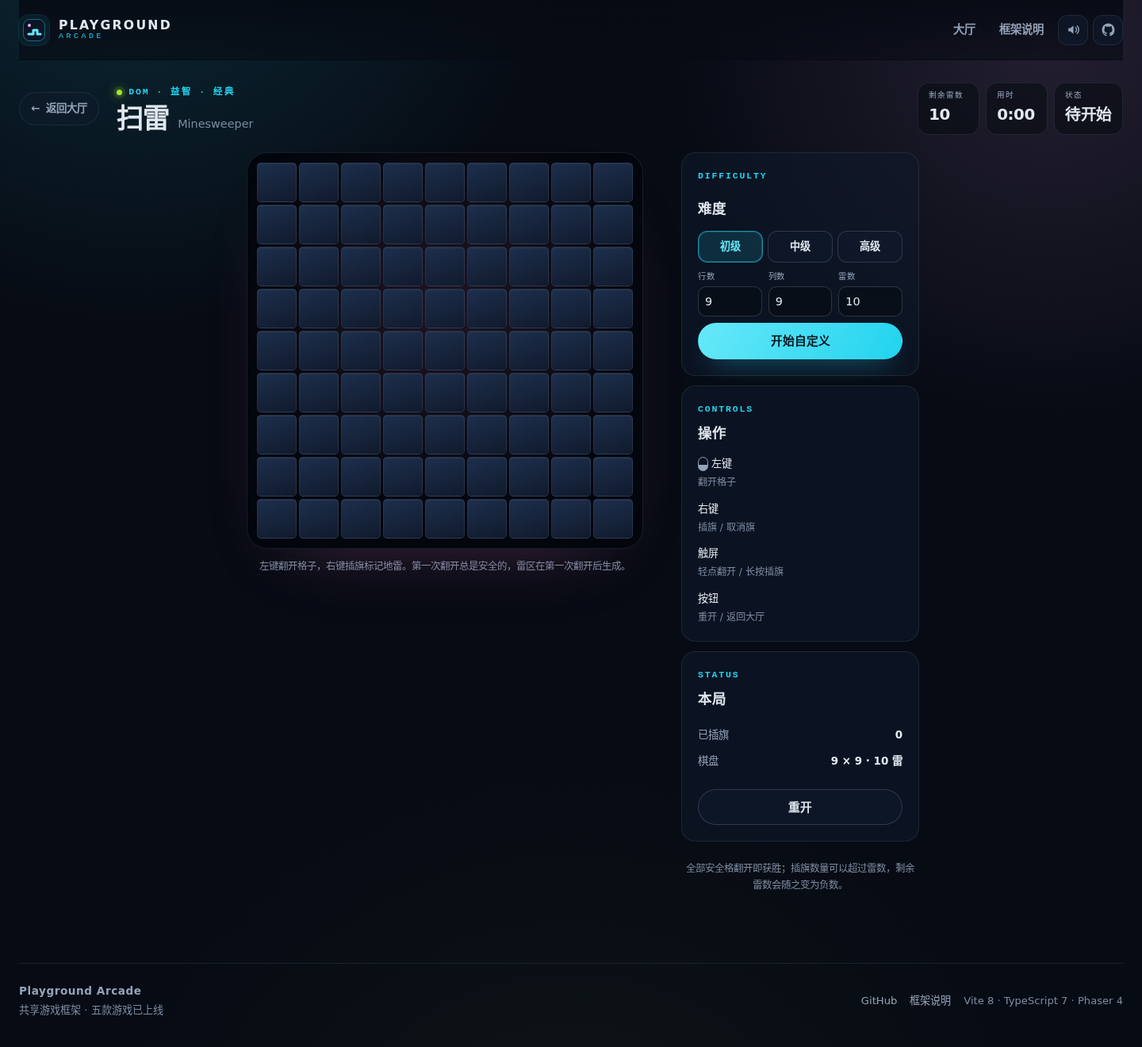
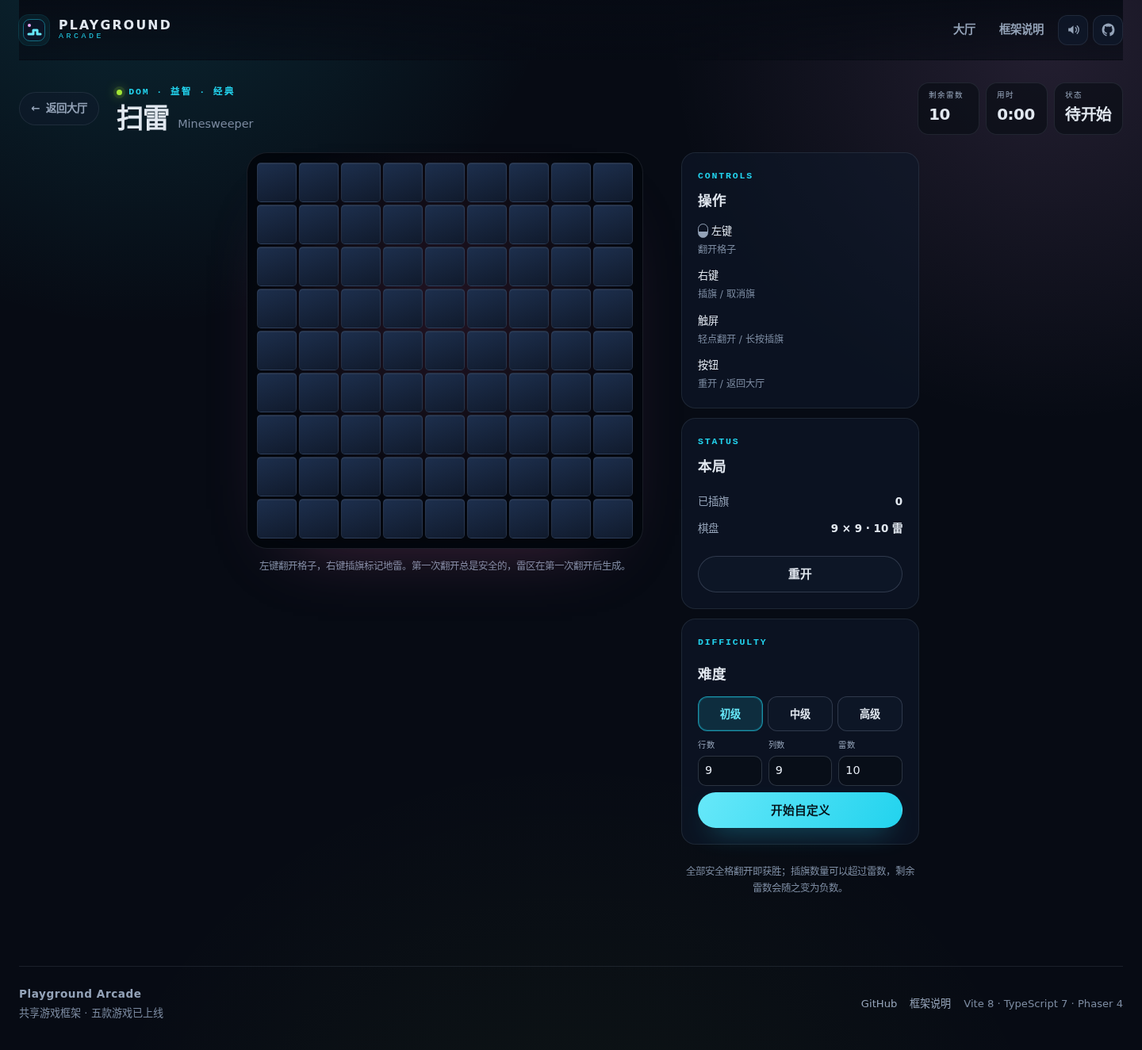
fix(minesweeper): keep restart visible and harden difficulty UI
Place the difficulty card after the controls and status cards so the desktop sidebar restart stays fully visible at 1440x1000. Raise preset and custom-submit controls to the 44px touch target, unhide the alert before filling it for assistive technology, and clear stale custom errors/form values on restart.

Extend the e2e suite with Enter submission, touch-form submission, safe-zone capacity errors, dirty-board cleanup and a real preset-click focus test. Refresh the affected screenshots and update the documented test/budget counts.

diff --git a/tests/e2e/minesweeper.difficulty.spec.ts b/tests/e2e/minesweeper.difficulty.spec.ts
@@ -14,7 +14,6 @@ import {
   mineSignature,
   openMinesweeper,
   readState,
-  setDebugConfig,
   submitCustomDifficulty,
 } from './minesweeper-helpers';
 import {
@@ -35,6 +34,9 @@ test.describe('minesweeper difficulty selector', () => {
     await expect(page.locator('[data-cell]')).toHaveCount(81);
     await expect(page.getByTestId('board-summary')).toHaveText('9 × 9 · 10 雷');
     await expect(page.getByTestId('remaining-mines')).toHaveText('10');
+    // The sidebar restart must stay fully usable on the 1440×1000 desktop
+    // viewport: the difficulty card lives below it, not above it.
+    await expect(page.getByTestId('restart-button')).toBeInViewport({ ratio: 1 });
     await expectActiveDifficulty(page, 'beginner');
 
     // Dirty the beginner board and start its clock, so the rebuild must clear
@@ -199,6 +201,15 @@ test.describe('minesweeper difficulty selector', () => {
     await expect(page.getByTestId('status')).toHaveText('进行中');
     expect(await activeIntervalCount(page)).toBe(1);
 
+    // A 5×5 board leaves 16 mines at most once the 3×3 safe zone is reserved.
+    await submitCustomDifficulty(page, 5, 5, 17);
+    await expect(error).toHaveText(
+      '雷数过多：首点安全区占 9 格，最多只能放 16 颗雷。',
+    );
+    await expect(page.locator('[data-cell]')).toHaveCount(256);
+    await expect(page.getByTestId('status')).toHaveText('进行中');
+    expect(await activeIntervalCount(page)).toBe(1);
+
     // Blank and non-integer values are rejected instead of clamped.
     await submitCustomDifficulty(page, '', 9, 10);
     await expect(error).toHaveText('行数不能为空。');
@@ -213,6 +224,49 @@ test.describe('minesweeper difficulty selector', () => {
     await expectActiveDifficulty(page, 'beginner');
     await expect(page.locator('[data-cell]')).toHaveCount(81);
     await expect(page.getByTestId('status')).toHaveText('待开始');
+    await expect(page.getByTestId('timer')).toHaveText('0:00');
+    await expect(page.getByTestId('flag-count')).toHaveText('0');
+    await expectCleanBoard(page);
+    expect(await activeIntervalCount(page)).toBe(0);
+
+    // Restart is a fresh game action: it clears a stale alert and restores the
+    // form values to the active config instead of keeping the rejected input.
+    await submitCustomDifficulty(page, 8, 8, 64);
+    await expect(error).toBeVisible();
+    await page.getByTestId('restart-button').click();
+    await expect(error).toBeHidden();
+    await expect(page.getByTestId('custom-rows')).toHaveValue('9');
+    await expect(page.getByTestId('custom-cols')).toHaveValue('9');
+    await expect(page.getByTestId('custom-mines')).toHaveValue('10');
+    await expect(page.getByTestId('board-summary')).toHaveText('9 × 9 · 10 雷');
+    await expect(page.getByTestId('timer')).toHaveText('0:00');
+  });
+
+  test('Enter submits the custom form from a number input', async ({ page }) => {
+    await installIntervalProbe(page);
+    await openMinesweeper(page);
+
+    await page.getByTestId('custom-rows').fill('12');
+    await page.getByTestId('custom-cols').fill('12');
+    await page.getByTestId('custom-mines').fill('20');
+    await page.getByTestId('custom-rows').press('Enter');
+    await expect(page.locator('[data-cell]')).toHaveCount(144);
+    await expect(page.getByTestId('board-summary')).toHaveText('12 × 12 · 20 雷');
+    await expect(page.getByTestId('status')).toHaveText('待开始');
+    await expect(page.getByTestId('timer')).toHaveText('0:00');
+    expect(await activeIntervalCount(page)).toBe(0);
+
+    // Enter also owns the invalid path: only the alert changes.
+    await page.getByTestId('custom-rows').fill('8');
+    await page.getByTestId('custom-cols').fill('8');
+    await page.getByTestId('custom-mines').fill('64');
+    await page.getByTestId('custom-mines').press('Enter');
+    await expect(page.getByTestId('difficulty-error')).toBeVisible();
+    await expect(page.getByTestId('difficulty-error')).toHaveText(
+      '雷数必须小于格子总数（64）。',
+    );
+    await expect(page.locator('[data-cell]')).toHaveCount(144);
+    await expect(page.getByTestId('board-summary')).toHaveText('12 × 12 · 20 雷');
     await expect(page.getByTestId('timer')).toHaveText('0:00');
     expect(await activeIntervalCount(page)).toBe(0);
   });
@@ -284,15 +338,10 @@ test.describe('minesweeper difficulty selector', () => {
     await expect(page.getByTestId('status')).toHaveText('踩雷结束');
     await expect(page.getByTestId('overlay-primary')).toBeFocused();
 
-    // The debug seam exercises the same rebuild path the selector uses while
-    // the overlay owns focus. Focus must land on the new active preset, not on
-    // the button inside the now-hidden overlay.
-    await setDebugConfig(page, {
-      rows: 16,
-      cols: 16,
-      mines: 40,
-      firstClickSafe: true,
-    });
+    // A real preset click while the overlay owns focus: the click focuses the
+    // preset, the rebuild hides the overlay, and focus must stay on a visible
+    // control instead of the button inside the now-hidden overlay.
+    await difficultyButton(page, 'intermediate').click();
     await expect(page.getByTestId('overlay')).toBeHidden();
     await expect(difficultyButton(page, 'intermediate')).toBeFocused();
     await expectActiveDifficulty(page, 'intermediate');

diff --git a/src/games/minesweeper/view.ts b/src/games/minesweeper/view.ts
@@ -40,7 +40,7 @@ const STATUS_LABELS: Readonly<Record<MinesweeperStatus, string>> = {
 /**
  * Render the three preset buttons with the active one pressed. The labels and
  * boards come from the difficulty module so the selector cannot drift from the
- * presets the parser and the lobby description use.
+ * presets the parser and the engine validate against.
  */
 function difficultyPresetButtonsHtml(config: Readonly<MinesweeperConfig>): string {
   const active = findDifficultyForConfig(config);
@@ -108,6 +108,31 @@ function viewHtml(config: Readonly<MinesweeperConfig>): string {
       </div>
 
       <aside class="minesweeper-panel" aria-label="操作与状态">
+        <div class="panel-card">
+          <p class="panel-kicker">CONTROLS</p>
+          <h2>操作</h2>
+          <dl class="control-list">
+            <div>
+              <dt><span class="pointer-glyph" aria-hidden="true"></span> 左键</dt>
+              <dd>翻开格子</dd>
+            </div>
+            <div><dt>右键</dt><dd>插旗 / 取消旗</dd></div>
+            <div><dt>触屏</dt><dd>轻点翻开 / 长按插旗</dd></div>
+            <div><dt>按钮</dt><dd>重开 / 返回大厅</dd></div>
+          </dl>
+        </div>
+
+        <div class="panel-card">
+          <p class="panel-kicker">STATUS</p>
+          <h2>本局</h2>
+          <p class="minesweeper-summary"><span>已插旗</span><strong data-testid="flag-count">0</strong></p>
+          <p class="minesweeper-summary"><span>棋盘</span><strong data-testid="board-summary">${config.rows} × ${config.cols} · ${config.mines} 雷</strong></p>
+          <div class="panel-actions">
+            <button class="button button--ghost" type="button" data-action="restart"
+              data-testid="restart-button">重开</button>
+          </div>
+        </div>
+
         <div class="panel-card minesweeper-difficulty" aria-labelledby="minesweeper-difficulty-title">
           <p class="panel-kicker">DIFFICULTY</p>
           <h2 id="minesweeper-difficulty-title">难度</h2>
@@ -142,31 +167,6 @@ function viewHtml(config: Readonly<MinesweeperConfig>): string {
             <p class="minesweeper-error" id="minesweeper-difficulty-error" role="alert"
               data-testid="difficulty-error" hidden></p>
           </form>
-        </div>
-
-        <div class="panel-card">
-          <p class="panel-kicker">CONTROLS</p>
-          <h2>操作</h2>
-          <dl class="control-list">
-            <div>
-              <dt><span class="pointer-glyph" aria-hidden="true"></span> 左键</dt>
-              <dd>翻开格子</dd>
-            </div>
-            <div><dt>右键</dt><dd>插旗 / 取消旗</dd></div>
-            <div><dt>触屏</dt><dd>轻点翻开 / 长按插旗</dd></div>
-            <div><dt>按钮</dt><dd>重开 / 返回大厅</dd></div>
-          </dl>
-        </div>
-
-        <div class="panel-card">
-          <p class="panel-kicker">STATUS</p>
-          <h2>本局</h2>
-          <p class="minesweeper-summary"><span>已插旗</span><strong data-testid="flag-count">0</strong></p>
-          <p class="minesweeper-summary"><span>棋盘</span><strong data-testid="board-summary">${config.rows} × ${config.cols} · ${config.mines} 雷</strong></p>
-          <div class="panel-actions">
-            <button class="button button--ghost" type="button" data-action="restart"
-              data-testid="restart-button">重开</button>
-          </div>
         </div>
 
         <p class="minesweeper-hint">全部安全格翻开即获胜；插旗数量可以超过雷数，剩余雷数会随之变为负数。</p>
@@ -542,8 +542,10 @@ export async function mountMinesweeper(
   }
 
   function showDifficultyError(message: string): void {
-    setText(difficultyError, message);
+    // Unhide the live region before filling it so assistive technology sees the
+    // alert appear with its text, rather than a text update on a hidden node.
     difficultyError.hidden = false;
+    setText(difficultyError, message);
   }
 
   function hideDifficultyError(): void {
@@ -775,6 +777,11 @@ export async function mountMinesweeper(
     stopClock();
     lastStatus = engine.currentStatus;
     sync();
+    // A rejected custom board can leave a stale alert and field values while
+    // the active game still uses the previous config. Restarting is a fresh
+    // game action, so clear that transient error and show the active config.
+    hideDifficultyError();
+    syncDifficultyControls();
     announce('游戏重新开始');
     // The overlay hides with focus still inside it, so move focus back to a
     // visible restart control once the new board is ready. On touch layouts the

diff --git a/tests/e2e/minesweeper.difficulty.mobile.spec.ts b/tests/e2e/minesweeper.difficulty.mobile.spec.ts
@@ -1,4 +1,5 @@
 import { expect, test } from './fixtures';
+import type { Page } from '@playwright/test';
 import {
   cellLocator,
   difficultyButton,
@@ -6,8 +7,27 @@ import {
   expectInsideViewport,
   expectNoHorizontalOverflow,
   openMinesweeper,
-  submitCustomDifficulty,
 } from './minesweeper-helpers';
+
+/** Submit the custom form with touch events, including the submit button. */
+async function submitCustomByTouch(
+  page: Page,
+  rows: number,
+  cols: number,
+  mines: number,
+): Promise<void> {
+  const fields = [
+    ['custom-rows', rows],
+    ['custom-cols', cols],
+    ['custom-mines', mines],
+  ] as const;
+  for (const [testId, value] of fields) {
+    const input = page.getByTestId(testId);
+    await input.tap();
+    await input.fill(String(value));
+  }
+  await page.getByTestId('custom-difficulty-submit').tap();
+}
 
 test.describe('minesweeper difficulty selector on a phone viewport', () => {
   test('presets and custom boards are operable by touch without horizontal overflow', async ({
@@ -40,7 +60,7 @@ test.describe('minesweeper difficulty selector on a phone viewport', () => {
     await expectActiveDifficulty(page, 'expert');
     await expectNoHorizontalOverflow(page);
 
-    await submitCustomDifficulty(page, 12, 12, 20);
+    await submitCustomByTouch(page, 12, 12, 20);
     await expect(page.locator('[data-cell]')).toHaveCount(144);
     await expect(page.getByTestId('board-summary')).toHaveText('12 × 12 · 20 雷');
     await expect(page.getByTestId('remaining-mines')).toHaveText('20');
@@ -53,7 +73,7 @@ test.describe('minesweeper difficulty selector on a phone viewport', () => {
     );
 
     // A rejected custom board stays a visible alert and does not rebuild.
-    await submitCustomDifficulty(page, 8, 8, 64);
+    await submitCustomByTouch(page, 8, 8, 64);
     const error = page.getByTestId('difficulty-error');
     await expect(error).toBeVisible();
     await expect(error).toHaveText('雷数必须小于格子总数（64）。');
@@ -89,7 +109,7 @@ test.describe('minesweeper difficulty selector on a phone viewport', () => {
     await expect(page.getByTestId('board-summary')).toHaveText('16 × 16 · 40 雷');
     await expectNoHorizontalOverflow(page);
 
-    await submitCustomDifficulty(page, 99, 9, 10);
+    await submitCustomByTouch(page, 99, 9, 10);
     const error = page.getByTestId('difficulty-error');
     await expect(error).toHaveText('行数必须是 5 到 30 之间的整数。');
     await expect(error).toBeVisible();

diff --git a/src/games/minesweeper/minesweeper.css b/src/games/minesweeper/minesweeper.css
@@ -321,7 +321,7 @@
 
 .minesweeper-preset {
   min-width: 0;
-  min-height: 40px;
+  min-height: 44px;
   padding: 8px 6px;
   border-radius: 12px;
   font-size: 0.82rem;
@@ -380,7 +380,7 @@
 
 .minesweeper-custom-submit {
   width: 100%;
-  min-height: 42px;
+  min-height: 44px;
   padding-inline: 10px;
 }
 

diff --git a/README.md b/README.md
@@ -177,7 +177,7 @@ npm run dev
 
 扫雷用原生 DOM 网格渲染（`engine: 'dom'`），不加载 Phaser；它同样通过 hash 路由后的 query `?debug=1`（例如 `/#/games/minesweeper?debug=1`）安装调试接缝：只读状态、用 `rows` / `cols` / `mineCount` / `safeFirst` 指定棋盘（缺省为 9 × 9 / 10 雷 / 首点安全，非法值回退初级）、用 `mines=row,col;...` 固定雷盘（分号分隔单元格，数量必须等于 `mineCount`）、`seed` 固定随机数（缺省、空串、非数字或非有限值回退为 1，只有显式 `seed=0` 才是 0），以及 e2e 专用的 `destroy()` 销毁入口。正常入口不显示调试 UI，也不暴露调试 API。
 
-难度选择在侧栏「难度」卡片：三档预设按钮以 `aria-pressed` 表示当前档，自定义表单接受 5–30 行、5–30 列与正整数雷数。预设和合法自定义都走同一条重建路径：停止旧计时器、取消待触发长按、隐藏结束遮罩并重置计时 / HUD / 焦点；非法自定义只更新 `role=alert` 错误区，不重建棋局也不停表。
+难度选择在侧栏「难度」卡片：三档预设按钮以 `aria-pressed` 表示当前档，自定义表单接受 5–30 行、5–30 列与正整数雷数。预设和合法自定义都走同一条重建路径：停止旧计时器、取消待触发长按、隐藏结束遮罩、重置计时 / HUD，并在焦点原本位于遮罩内时把它移到当前预设或「开始自定义」按钮；非法自定义只更新 `role=alert` 错误区，不重建棋局也不停表。
 
 触屏长按会抑制浏览器上下文菜单和文本选择，棋盘与格子也设置了 `touch-action: manipulation` 与 `user-select: none`；手机视口下 HUD 与返回大厅保持在首屏内，页面不会横向滚动。棋盘旁的重开入口只在现有用例覆盖的 360×740 与 412×839 视口中保证位于首屏；320–339px 的几何降级区间（例如 320×640）不承诺它出现在首屏，需要向下滚动才能触达。
 
@@ -339,13 +339,13 @@ npm run typecheck    # 通过
 npm run lint         # 通过
 npm run test:unit    # 251 passed（含贪食蛇 21、俄罗斯方块 38、2048 35、打砖块 39、扫雷 79 个规则 / 难度 / 调试用例）
 npm run build        # 通过
-npm run check:budget # 通过（入口 10.83 KB gzip，全部 JS 402.58 KB gzip）
-npm run test:e2e     # 106 passed（桌面 81 + 手机 25）
+npm run check:budget # 通过（入口 10.83 KB gzip，全部 JS 402.59 KB gzip）
+npm run test:e2e     # 107 passed（桌面 81 + 手机 26）
 ```
 
 端到端覆盖：大厅与游戏卡片、页面内锚点滚动、进入 / 返回 / 重进、最近游玩时间（进入 → 返回大厅 → 刷新后保留）、未知游戏与未知路径、音效偏好持久化、方向键与 WASD、修饰键快捷键不劫持、鼠标点击与拖动、重置后键盘仍可用、仅容器变化时的缩放、快速切换时丢弃晚到 mount、页面隐藏时离开仍能完整销毁、监听器清理、手机触屏与横向溢出检查；贪食蛇的开始 / 暂停 / 重开、吃果实与增长、撞墙死亡、更高 / 更低最高分、刷新后最高分仍在、P / Esc / R、滑动转向、页面隐藏自动暂停、手机 D-pad 与手机端重开；俄罗斯方块的从大厅进入 / 返回、键盘移动与旋转、硬降消行计分、暂停 / 继续、堆顶结束与重开、R 重开，以及手机端触屏按钮操作与手机端结束 / 重开；2048 的从大厅进入 / 返回、方向键与 WASD 合并计分、固定棋盘无路可走结束 / 重开 / R 重开、READY 时 R 直接开始、canvas 像素确认棋盘与方块确实被绘制，以及就绪定时器与 destroy 后键盘 / 可见性 / 指针监听的清理；手机端滑动合并与横向溢出检查；打砖块的从大厅进入 / 返回、键盘与 A/D 移动挡板、非终砖击中立即计分、固定砖块过关后加速、Space 开始 / 过关继续、R 与侧栏重开、窗口失焦暂停并在恢复焦点后继续、连续三次漏球扣命至 game over 后重开、canvas 像素确认分层砖块 / 挡板 / 球被绘制、destroy 后键盘 / 指针（含 cancel / lostpointercapture）/ 可见性监听与就绪定时器、调试接缝清理，以及手机端触屏拖动挡板与横向溢出检查；扫雷的从大厅进入 / 返回、固定雷盘首开、左键翻开、右键插旗与取消旗（剩余雷数同步变化）、格子可见文本（数字 / ⚑ / ✹ 与重开清空）、踩雷结束并展示全部雷、翻开全部安全格获胜、结束后焦点进入遮罩、重开后焦点回到重开按钮、Enter 翻开聚焦格、畸形调试雷盘回退到固定随机盘、重开后的 data-revealed 清理、遮罩与侧栏重开、用时显示、调试状态读取，以及 destroy 与路由离开后的棋盘监听器、计时器、mountSignal 与调试接缝清理；手机端扫雷的轻点翻开、长按插旗 / 取消、移动 / 滚动 / 取消长按、取消后下一次轻点仍可翻开、按住超过 1.2 秒后松手不误翻、按住时重开 / destroy 取消待触发的长按、第二个指针不清除首个指针的 click 抑制、重开后焦点落在首屏可见的重开按钮、触屏踩雷 / 胜利与手机布局无横向溢出；手机端扫雷另在 320×640 / 340×700 / 349×700 / 360×740 视口逐一断言 81 格最小尺寸、无横向溢出与 HUD / 返回大厅在首屏内。
 
-扫雷难度选择的桌面用例覆盖三档预设的 81 → 256 → 480 格、10 → 40 → 99 雷、棋盘摘要 / HUD / 计时归零与旧棋局清空；合法自定义 12×12/20 重建 144 格，配置等于预设时同步 `aria-pressed`、否则不选中任何预设；非法雷数、尺寸越界、空值和小数只显示中文 `role=alert` 错误，棋盘、状态与计时器保持不变；重复切换用 interval / listener 探针断言无计时器或监听器泄漏，结束后切换会把焦点移出隐藏遮罩。手机用例在 412×839 与 320×640 视口用触控操作预设和自定义表单，并断言无横向溢出。
+扫雷难度选择的桌面用例覆盖三档预设的 81 → 256 → 480 格、10 → 40 → 99 雷、棋盘摘要 / HUD / 计时归零与旧棋局清空；合法自定义 12×12/20 重建 144 格，配置等于预设时同步 `aria-pressed`、否则不选中任何预设；非法雷数、首点安全区容量不足、尺寸越界、空值和小数只显示中文 `role=alert` 错误，棋盘、状态、插旗与计时器保持不变；重启会清掉过期错误并把表单恢复为当前配置；Enter 从数字输入提交合法 / 非法配置走同一条校验路径；重复切换用 interval / listener 探针断言无计时器或监听器泄漏，结束后切换会把焦点移出隐藏遮罩。手机用例在 412×839 与 320×640 视口用触控 tap 输入并提交预设和自定义表单，并断言无横向溢出。
 
 ## 已知限制
 

diff --git a/docs/screenshots/README.md b/docs/screenshots/README.md
@@ -5,17 +5,17 @@
 ## difficulty：扫雷难度选择（Issue #44 / 子任务 3）
 
 - Before 基线：`9f9aa54`（PR #57 合入「扫雷视图支持任意棋盘配置与安全重建」后的 `main`，也就是本子任务开始前的 `main`）。侧栏只有操作与本局状态卡片，没有难度控件。
-- After：本子任务分支 `agent/plan-44-t3` 的最终 head。侧栏新增「难度」卡片：初级 / 中级 / 高级三个预设按钮，以及行 / 列 / 雷数三个数字输入和「开始自定义」按钮；当前档以 `aria-pressed` 标记，非法自定义在 `role=alert` 区域显示中文错误。
+- After：本子任务分支 `agent/plan-44-t3` 的最终 head。侧栏在操作与本局状态卡片之后新增「难度」卡片：初级 / 中级 / 高级三个预设按钮，以及行 / 列 / 雷数三个数字输入和「开始自定义」按钮；当前档以 `aria-pressed` 标记，非法自定义在 `role=alert` 区域显示中文错误。
 - 视口 / 主题：桌面 1440×1000 CSS px，DPR 1，深色主题，`reducedMotion: reduce`；Before / After 使用同一固定雷盘（`?debug=1&mines=...`）、READY 状态，均为整页截图（`fullPage: true`）。
 - 生成 After：`npm run screenshots:minesweeper`（生产构建 + `vite preview`，固定雷盘走调试接缝）。该命令同时刷新大厅与桌面 / 手机玩法截图，因为大厅卡片描述和侧栏布局随难度选择更新。
-- 复现 Before：在 `9f9aa54` 的干净 worktree 里 `npm ci && npm run build`，用 `node_modules/vite/bin/vite.js preview --host 127.0.0.1 --port 4186 --strictPort` 启动预览，运行 `node scripts/capture-minesweeper-screenshots.mjs`；脚本会以 After 文件名写出基线截图，把 `after-minesweeper-ready-desktop.png` 另存为 `before-minesweeper-ready-desktop.png` 即可。
+- 复现 Before：在 `9f9aa54` 的干净 worktree 里 `npm ci && npm run build`，用 `node_modules/vite/bin/vite.js preview --host 127.0.0.1 --port 4186 --strictPort` 启动预览，再运行 `BASE_URL=http://127.0.0.1:4186 node scripts/capture-minesweeper-screenshots.mjs`。这里用默认 after 模式即可；不要加 `--before`，该模式服务于更早的、还没有扫雷路由的基线。脚本会以 After 文件名写出基线截图，把 `after-minesweeper-ready-desktop.png` 另存为 `before-minesweeper-ready-desktop.png` 即可。
 
 | 文件 | 场景 | 视口 / 主题 | 说明 |
 | --- | --- | --- | --- |
 | `before-minesweeper-ready-desktop.png` | 扫雷 READY（基线 `9f9aa54`） | 1440×1000 / 深色 / 整页 1440×1027 | 侧栏没有难度卡片；9×9 隐藏棋盘、HUD 与操作说明。 |
-| `after-minesweeper-ready-desktop.png` | 扫雷 READY（本子任务） | 1440×1000 / 深色 / 整页 1440×1320 | 侧栏新增难度卡片，初级预设为 `aria-pressed="true"`，自定义表单显示 9 / 9 / 10；棋盘与 HUD 仍是初级 READY。整页高度增加来自新增侧栏卡片。 |
+| `after-minesweeper-ready-desktop.png` | 扫雷 READY（本子任务） | 1440×1000 / 深色 / 整页 1440×1324 | 侧栏在操作与本局状态卡之后新增难度卡片，初级预设为 `aria-pressed="true"`，自定义表单显示 9 / 9 / 10；棋盘与 HUD 仍是初级 READY。整页高度增加来自新增侧栏卡片。 |
 
-本次同时刷新了 `after-hub-desktop.png` / `after-hub-mobile.png`（大厅卡片描述改为支持难度选择）与 4 张桌面玩法截图；手机玩法截图只显示首屏，侧栏难度卡片只露出顶部，行为由手机 e2e 覆盖。
+本次同时刷新了 `after-hub-desktop.png` / `after-hub-mobile.png`（大厅卡片描述改为支持难度选择）与 4 张桌面玩法截图；手机玩法截图只显示首屏，难度卡片位于侧栏下方、首屏不可见，其滚动后的可操作性由手机 e2e 覆盖。
 
 ### 证据限制
 
@@ -103,13 +103,13 @@
 | `after-hub-mobile.png` | 大厅（手机） | 390×844（DPR 2）/ 深色 | 整页单列布局，含扫雷卡片。 |
 | `after-minesweeper-ready-desktop.png` | 扫雷 READY | 1440×1000 / 深色 / 整页 | 9×9 隐藏棋盘、HUD、侧栏与操作提示；文件已由难度选择子任务刷新为含难度卡片的整页截图。 |
 | `after-minesweeper-playing-desktop.png` | 扫雷游玩中 | 1440×1000 / 深色 / 整页 | 翻开部分棋盘、一面旗子、剩余雷数与计时；侧栏含难度卡片。 |
-| `after-minesweeper-won-desktop.png` | 扫雷 CLEARED | 1440×1000 / 深色 | 固定雷盘翻开全部安全格后的胜利遮罩。 |
-| `after-minesweeper-lost-desktop.png` | 扫雷 BOOM | 1440×1000 / 深色 | 固定雷盘踩雷后的失败遮罩与全部雷。 |
+| `after-minesweeper-won-desktop.png` | 扫雷 CLEARED | 1440×1000 / 深色 / 整页 1440×1324 | 固定雷盘翻开全部安全格后的胜利遮罩；侧栏在状态卡后含难度卡片。 |
+| `after-minesweeper-lost-desktop.png` | 扫雷 BOOM | 1440×1000 / 深色 / 整页 1440×1324 | 固定雷盘踩雷后的失败遮罩与全部雷；侧栏在状态卡后含难度卡片。 |
 
 ### 证据限制
 
 - main 没有扫雷页面，所以 Before 只能对比大厅（同一视口 / 主题）与真实未注册路由，不能与旧版扫雷页面逐像素对比。
-- After 大厅截图已在最终 head 重新生成：`7b2f05b` 的 hub 文案改动会让旧图过期，本次刷新后桌面大厅为 1440×3422；4 张游戏页截图重跑后逐字节一致。
+- After 大厅截图已在最终 head 重新生成：`7b2f05b` 的 hub 文案改动会让旧图过期，当时刷新后桌面大厅为 1440×3422；4 张游戏页截图重跑后逐字节一致。后续难度选择子任务再次刷新了这些共用文件：桌面大厅变为 1440×3468，4 张桌面玩法截图变为整页 1440×1324 并含难度卡片（见文首 difficulty 小节）。
 - 本子任务只做桌面输入与桌面 e2e；手机端只刷新大厅截图，不覆盖手机端扫雷玩法。
 - 手机端为 Playwright 设备模拟（390×844、DPR 2、触摸、大厅整页截图），不是真实设备截图。
 - 截图来自生产构建；交互行为另有桌面 e2e 验证，不依赖截图比对。

diff --git a/docs/framework.md b/docs/framework.md
@@ -258,7 +258,7 @@ const vector = directions.vector(); // 对角线已归一化
 
 - `index.ts` 只放静态 `meta` 与 `mount()` 内的动态 `import('./view')`，并检查 `AbortSignal`；
 - `view.ts` 按当前难度配置（三档预设或自定义行列雷数）用原生 DOM 网格绘制棋盘，把纯规则引擎 `engine.ts` 的状态快照同步到 HUD、格子和结束遮罩；难度卡片用 `aria-pressed` 标记当前预设，自定义配置恰好等于某档时同步该档，非法输入只在 `role=alert` 错误区显示中文原因；
-- 预设与合法自定义共用同一条 `applyConfig()` 重建路径：停止旧计时器、取消待触发长按、隐藏遮罩并重置计时 / HUD / 焦点；非法自定义不重建棋局、不停止计时；
+- 预设与合法自定义共用同一条 `applyConfig()` 重建路径：停止旧计时器、取消待触发长按、隐藏遮罩、重置计时 / HUD，并在焦点原本位于遮罩内时把它移到当前预设或「开始自定义」按钮；非法自定义不重建棋局、不停止计时；
 - 棋盘用左右键交互：左键翻开、右键插旗并 `preventDefault()` 掉浏览器菜单；
 - 棋盘、难度选择器与按钮监听器挂在 `AbortController` 的 signal 上；`mountSignal` 的 abort 监听在 `destroy()` 中显式移除，计时器也在那里清理；
 - `?debug=1&rows=...&cols=...&mineCount=...&safeFirst=...` 提供只读状态与棋盘配置（另可用 `mines=row,col;...` 固定雷盘、`seed` 固定随机数；缺省、空串、非数字或非有限值回退为 1，只有显式 `seed=0` 才是 0），以及 e2e 专用的 `destroy()`，正常入口不安装调试 API。
@@ -307,7 +307,7 @@ Node.js `^22.12.0 || ^24.0.0 || >=26.0.0`（Vite 8 的要求）。CI（`.github/
 ## 14. 性能与已知限制
 
 - 大厅首屏不包含 Phaser；Phaser 只在进入使用 Phaser 的 2D 游戏时加载（本地构建 chunk 约 1.3 MB / 357 KB gzip），扫雷等 DOM 游戏不加载它。
-- 入口 JS 约 10.83 KB gzip；`check:budget` 断言入口不含引擎且小于 50 KB，全部 JS chunk 小于 450 KB gzip（当前约 402.58 KB gzip）。
+- 入口 JS 约 10.83 KB gzip；`check:budget` 断言入口不含引擎且小于 50 KB，全部 JS chunk 小于 450 KB gzip（当前约 402.59 KB gzip）。
 - 3D 尚未实现，Three.js 只在文档与目录层面预留。
 - 空白示例只演示框架能力；`src/games/snake/`、`src/games/tetris/`、`src/games/2048/`、`src/games/breakout/` 与 `src/games/minesweeper/` 是完整玩法参考（规则引擎、渲染器、响应式视图、测试）。扫雷是纯 DOM 参考，其余四款使用 Phaser 场景。
 - 打砖块固定 480×720 逻辑球场与 10 列砖块，没有道具、多球或在线排行榜；难度曲线由砖块行数与球速控制。
